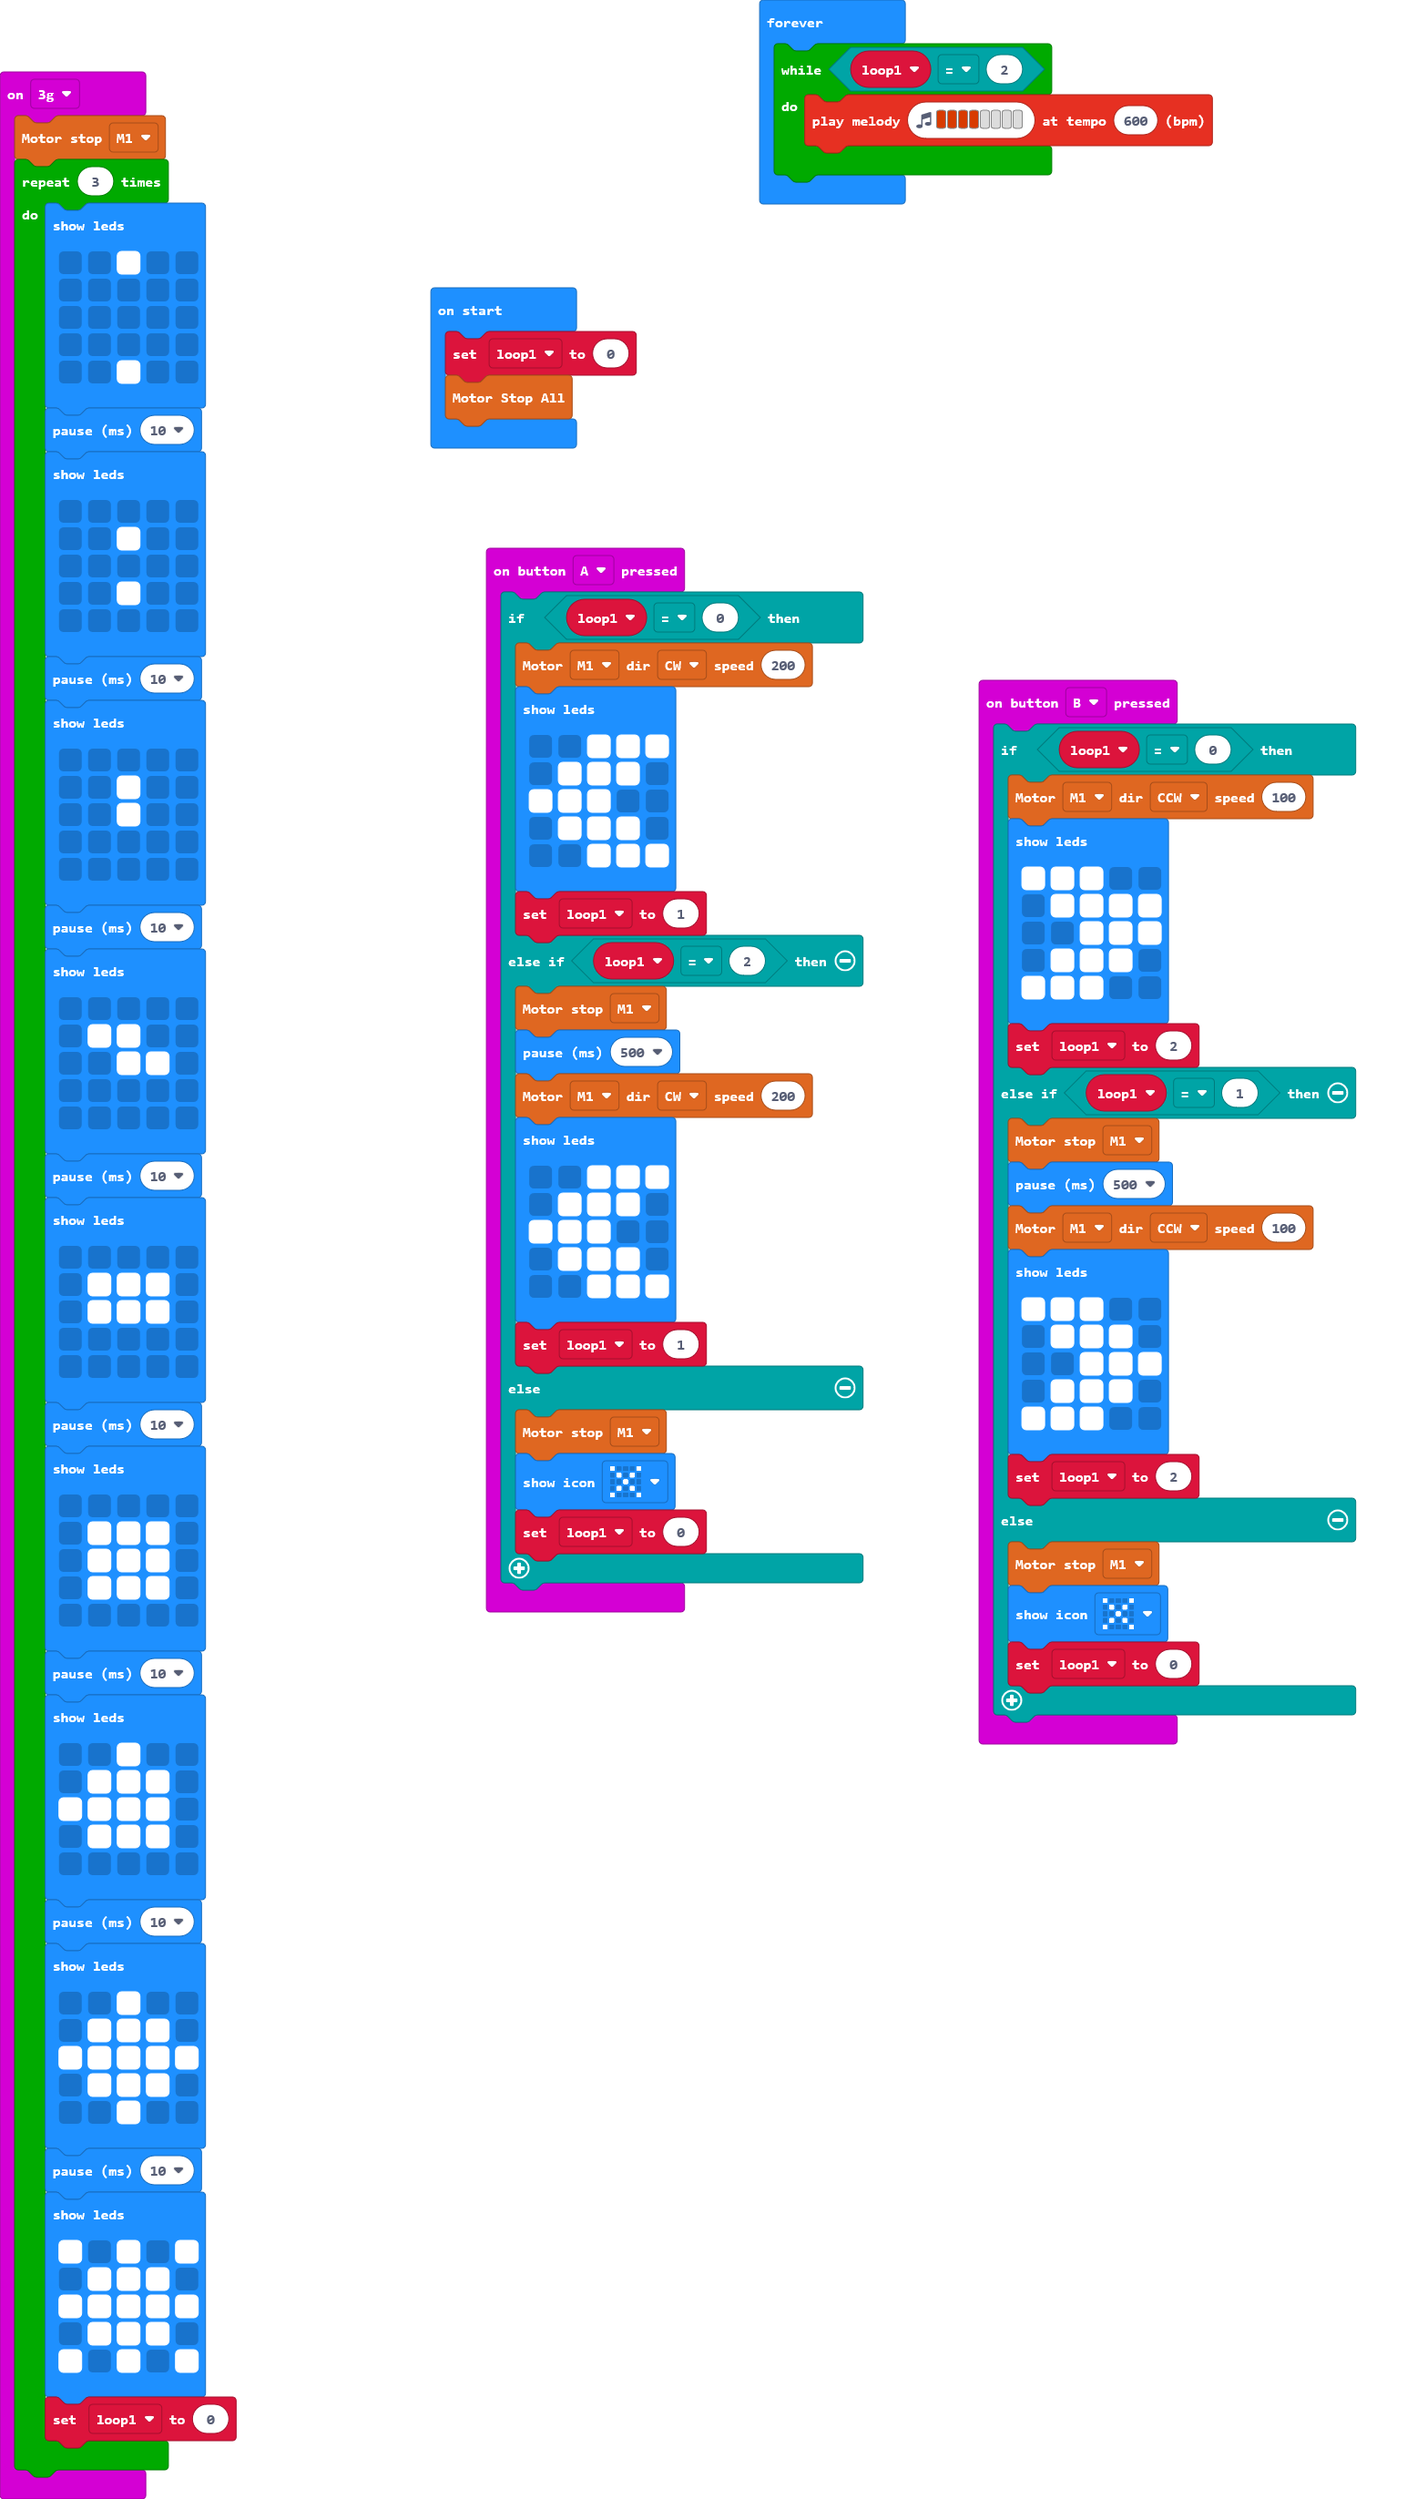
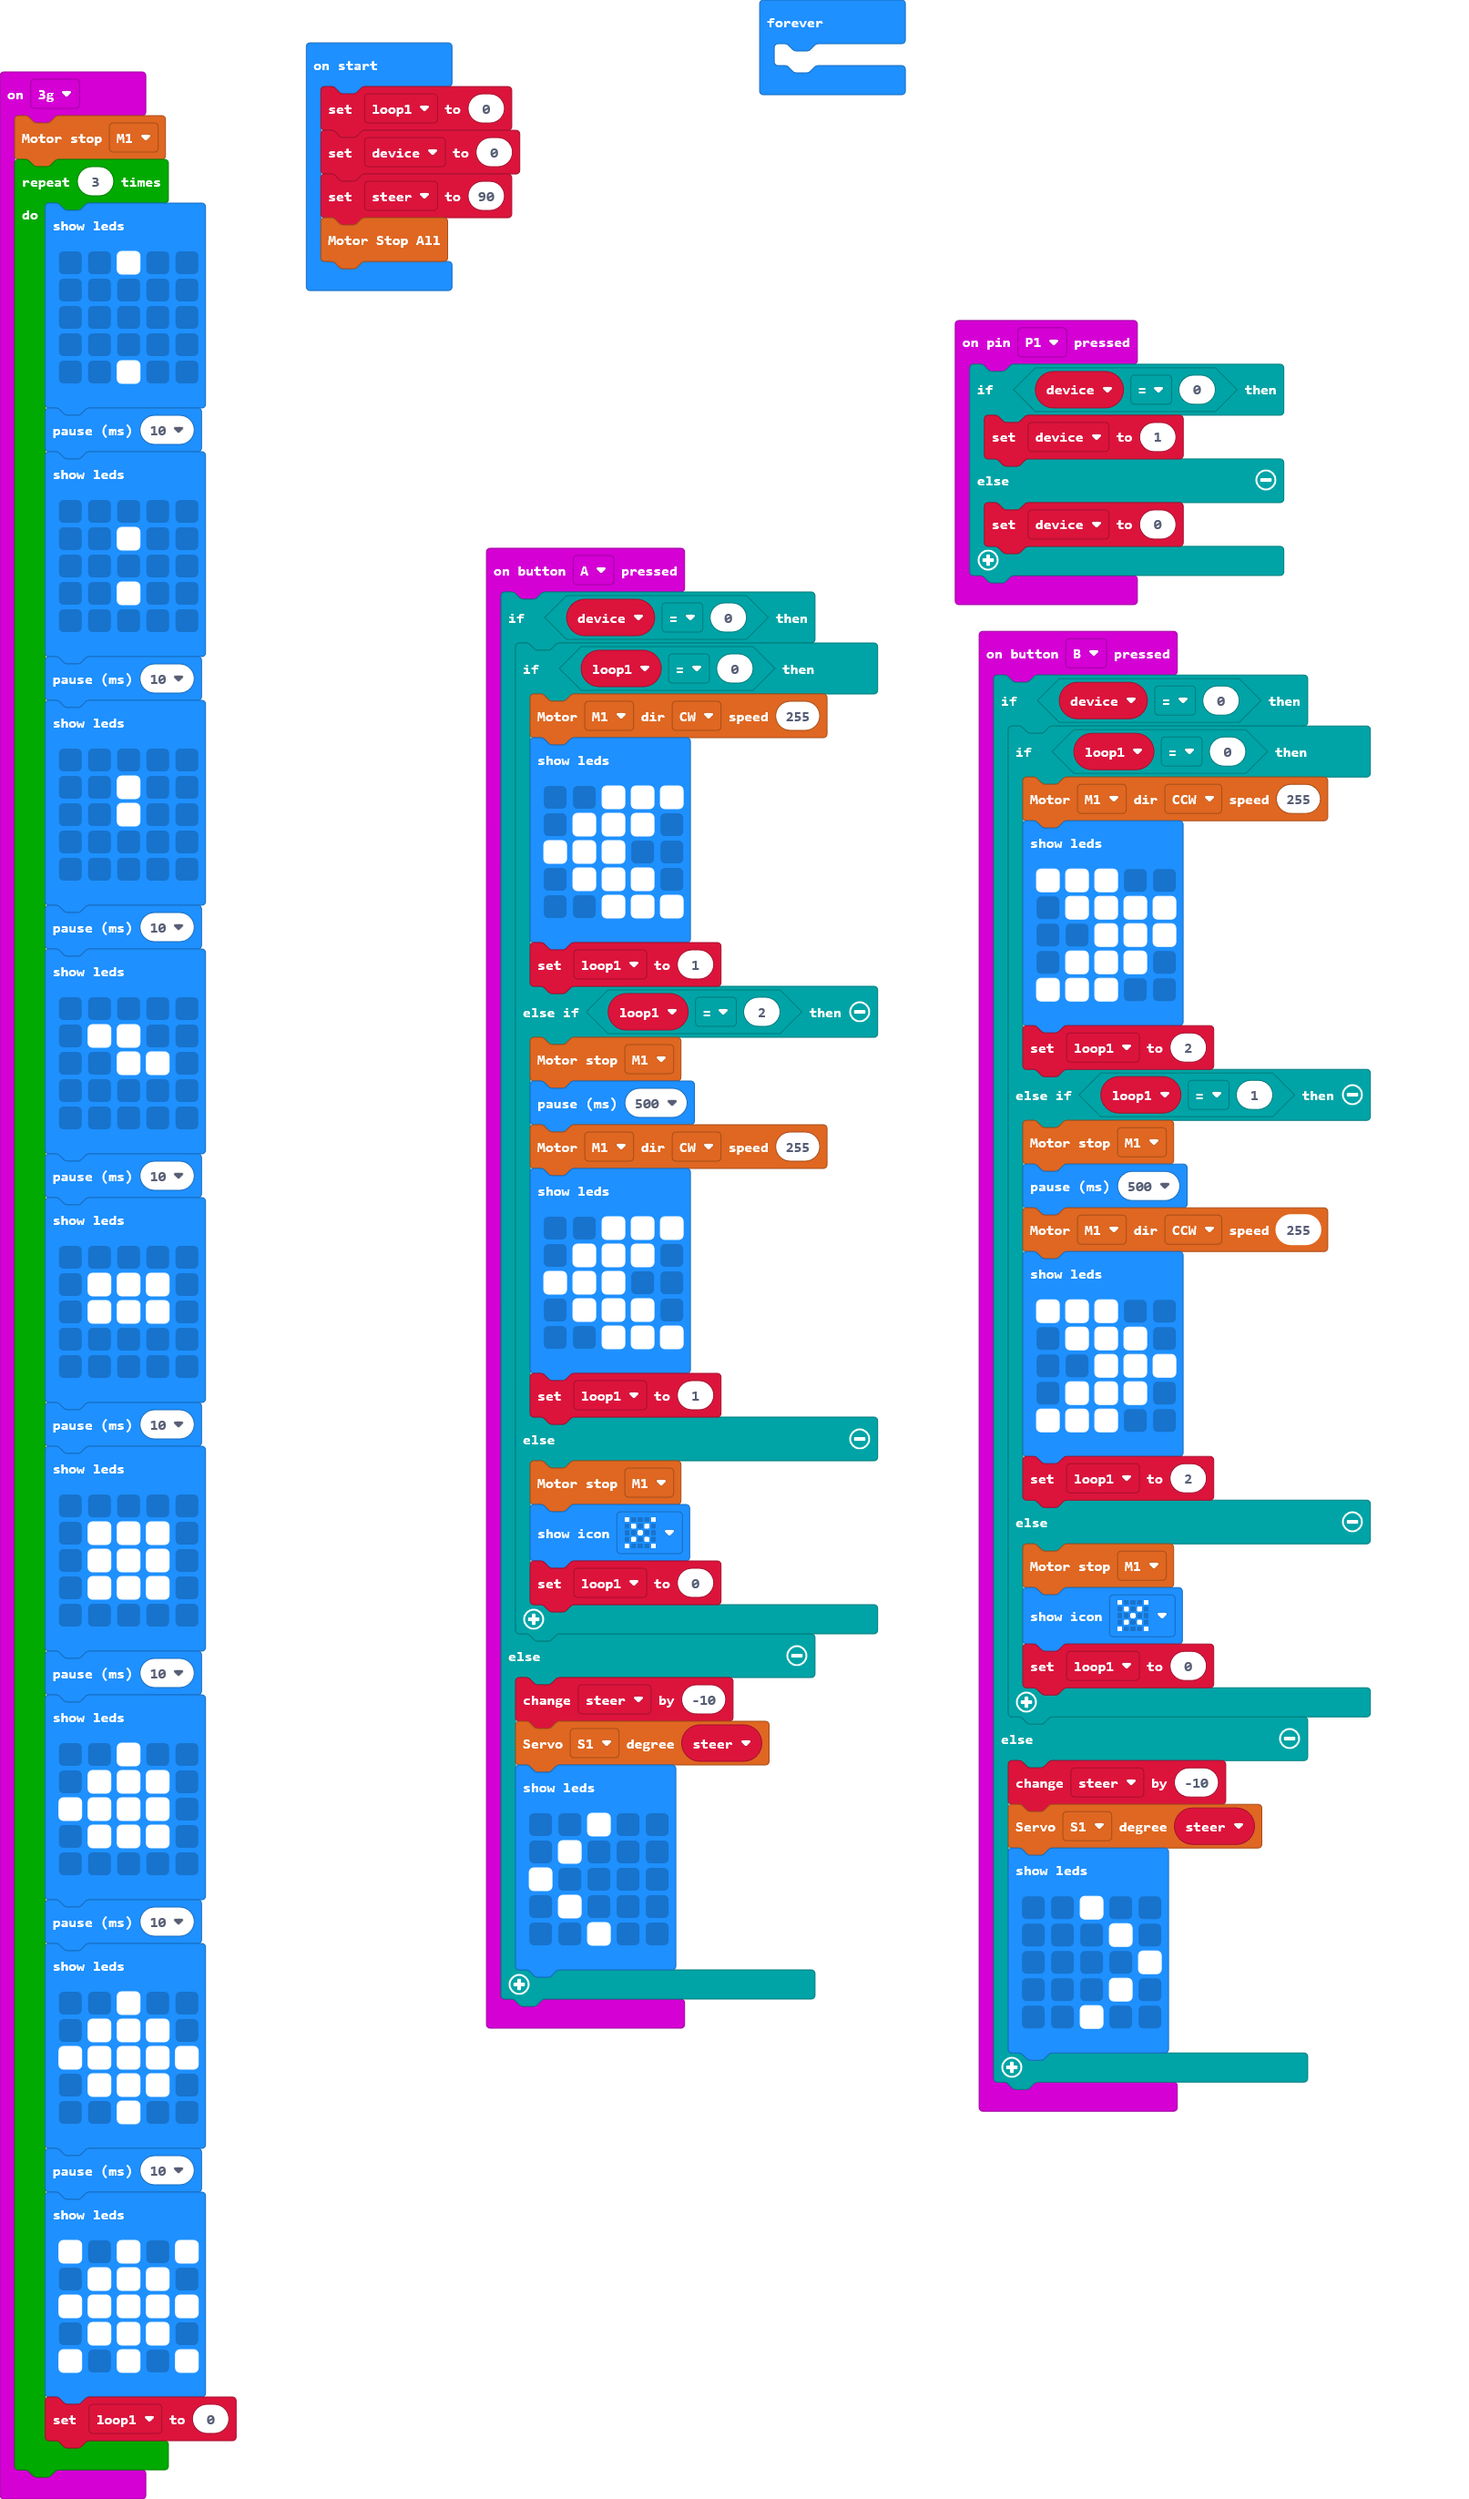
Update main.blocks, main.ts

diff --git a/main.ts b/main.ts
@@ -1,59 +1,90 @@
 input.onButtonPressed(Button.A, function () {
-    if (loop1 == 0) {
-        motor.MotorRun(motor.Motors.M1, motor.Dir.CW, 200)
-        basic.showLeds(`
-            . . # # #
-            . # # # .
-            # # # . .
-            . # # # .
-            . . # # #
-            `)
-        loop1 = 1
-    } else if (loop1 == 2) {
-        motor.motorStop(motor.Motors.M1)
-        basic.pause(500)
-        motor.MotorRun(motor.Motors.M1, motor.Dir.CW, 200)
-        basic.showLeds(`
-            . . # # #
-            . # # # .
-            # # # . .
-            . # # # .
-            . . # # #
-            `)
-        loop1 = 1
+    if (device == 0) {
+        if (loop1 == 0) {
+            motor.MotorRun(motor.Motors.M1, motor.Dir.CW, 255)
+            basic.showLeds(`
+                . . # # #
+                . # # # .
+                # # # . .
+                . # # # .
+                . . # # #
+                `)
+            loop1 = 1
+        } else if (loop1 == 2) {
+            motor.motorStop(motor.Motors.M1)
+            basic.pause(500)
+            motor.MotorRun(motor.Motors.M1, motor.Dir.CW, 255)
+            basic.showLeds(`
+                . . # # #
+                . # # # .
+                # # # . .
+                . # # # .
+                . . # # #
+                `)
+            loop1 = 1
+        } else {
+            motor.motorStop(motor.Motors.M1)
+            basic.showIcon(IconNames.No)
+            loop1 = 0
+        }
     } else {
-        motor.motorStop(motor.Motors.M1)
-        basic.showIcon(IconNames.No)
-        loop1 = 0
+        steer += -10
+        motor.servo(motor.Servos.S1, steer)
+        basic.showLeds(`
+            . . # . .
+            . # . . .
+            # . . . .
+            . # . . .
+            . . # . .
+            `)
     }
 })
 input.onButtonPressed(Button.B, function () {
-    if (loop1 == 0) {
-        motor.MotorRun(motor.Motors.M1, motor.Dir.CCW, 100)
-        basic.showLeds(`
-            # # # . .
-            . # # # #
-            . . # # #
-            . # # # .
-            # # # . .
-            `)
-        loop1 = 2
-    } else if (loop1 == 1) {
-        motor.motorStop(motor.Motors.M1)
-        basic.pause(500)
-        motor.MotorRun(motor.Motors.M1, motor.Dir.CCW, 100)
-        basic.showLeds(`
-            # # # . .
-            . # # # .
-            . . # # #
-            . # # # .
-            # # # . .
-            `)
-        loop1 = 2
+    if (device == 0) {
+        if (loop1 == 0) {
+            motor.MotorRun(motor.Motors.M1, motor.Dir.CCW, 255)
+            basic.showLeds(`
+                # # # . .
+                . # # # #
+                . . # # #
+                . # # # .
+                # # # . .
+                `)
+            loop1 = 2
+        } else if (loop1 == 1) {
+            motor.motorStop(motor.Motors.M1)
+            basic.pause(500)
+            motor.MotorRun(motor.Motors.M1, motor.Dir.CCW, 255)
+            basic.showLeds(`
+                # # # . .
+                . # # # .
+                . . # # #
+                . # # # .
+                # # # . .
+                `)
+            loop1 = 2
+        } else {
+            motor.motorStop(motor.Motors.M1)
+            basic.showIcon(IconNames.No)
+            loop1 = 0
+        }
     } else {
-        motor.motorStop(motor.Motors.M1)
-        basic.showIcon(IconNames.No)
-        loop1 = 0
+        steer += -10
+        motor.servo(motor.Servos.S1, steer)
+        basic.showLeds(`
+            . . # . .
+            . . . # .
+            . . . . #
+            . . . # .
+            . . # . .
+            `)
+    }
+})
+input.onPinPressed(TouchPin.P1, function () {
+    if (device == 0) {
+        device = 1
+    } else {
+        device = 0
     }
 })
 input.onGesture(Gesture.ThreeG, function () {
@@ -133,11 +164,13 @@ input.onGesture(Gesture.ThreeG, function () {
         loop1 = 0
     }
 })
+let steer = 0
+let device = 0
 let loop1 = 0
 loop1 = 0
+device = 0
+steer = 90
 motor.motorStopAll()
 basic.forever(function () {
-    while (loop1 == 2) {
-        music.playMelody("B B B B - - - - ", 600)
-    }
+	
 })
